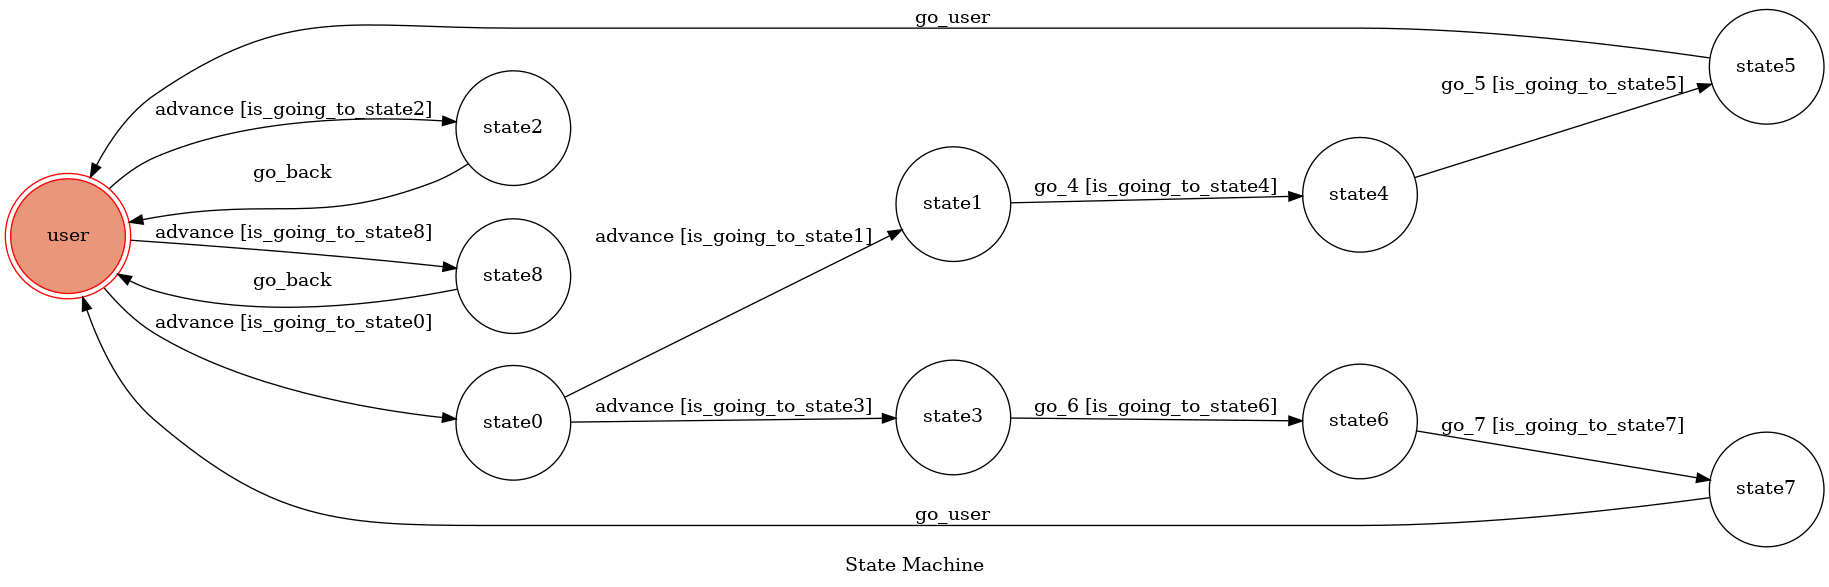
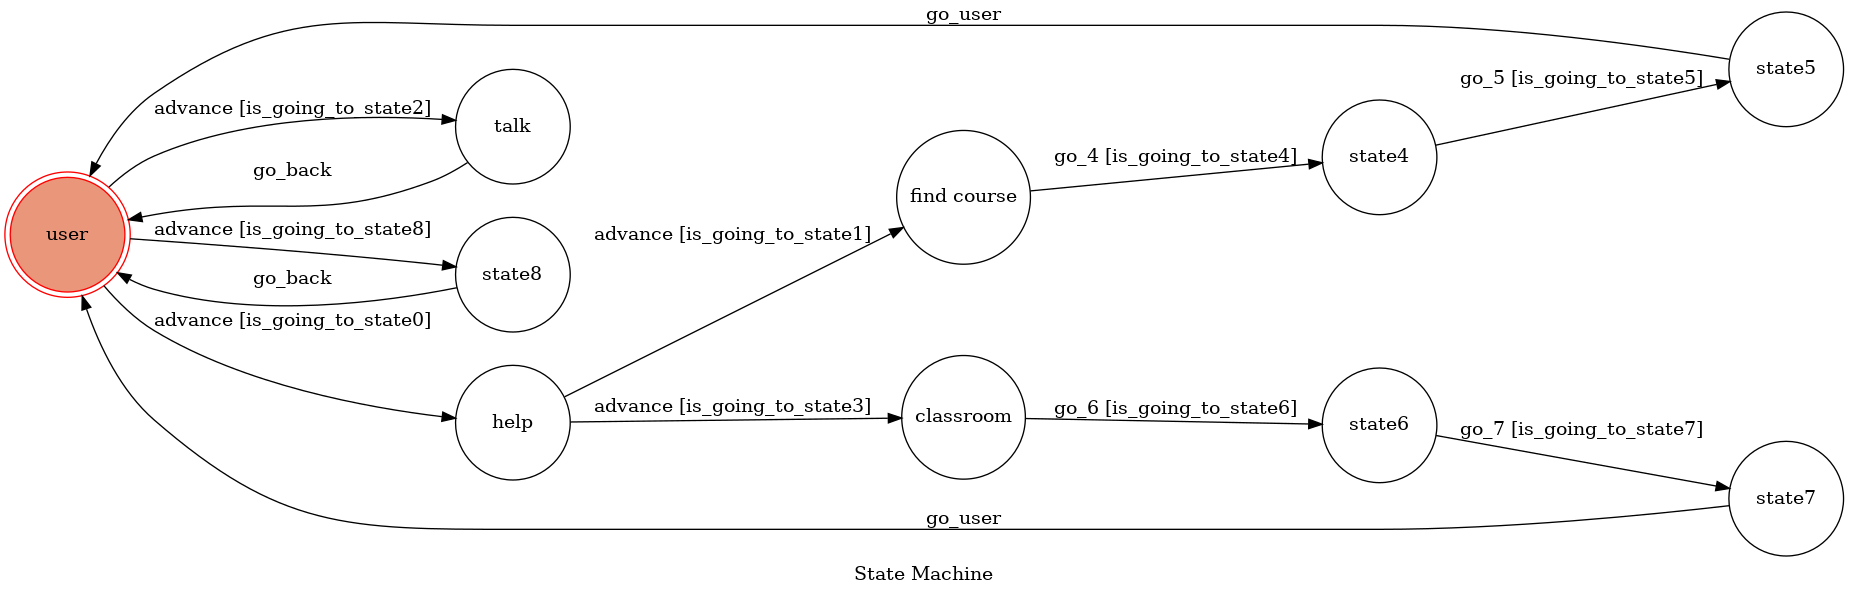
Add README

diff --git a/app.py b/app.py
@@ -7,7 +7,7 @@ machine = TocMachine(
     states=[
         'user',
         'help',
-        'find course',
+        'course',
         'talk',
         'classroom',
         'state4',
@@ -26,7 +26,7 @@ machine = TocMachine(
         {
             'trigger': 'advance',
             'source': 'help',
-            'dest': 'find course',
+            'dest': 'course',
             'conditions': 'is_going_to_state1'
         },
         {
@@ -49,7 +49,7 @@ machine = TocMachine(
         },
         {
             'trigger': 'go_4',
-            'source': 'find course',
+            'source': 'course',
             'dest': 'state4',
             'conditions': 'is_going_to_state4'
         },
@@ -118,7 +118,7 @@ def webhook_handler():
 
     if body['object'] == "page":
         event = body['entry'][0]['messaging'][0]
-        if machine.state == "find course":
+        if machine.state == "course":
             machine.go_4(event)
             return 'OK'
         elif machine.state == "state4":

diff --git a/README.md b/README.md
@@ -1,43 +1,34 @@
 # TOC Project 2019
 
-Template Code for TOC Project 2019
-
 A Facebook messenger bot based on a finite state machine
-///give me something !!!
 
-## Setup
+### Chat Box 功能:
+* 成大課程查詢
+* NCKU CSIE 借教室 
+* 模仿你講話
 
-### Prerequisite
+## Quickstart
+### 成大課程查詢
+1. 輸入"小幫手"，選擇"課程查詢"按鈕
+2. 輸入想要查詢的系所代號
+3. 輸入想要查詢的課程代碼
+4. 回傳搜尋結果(餘額/課程連結)
+5. 如果還有餘額，會再回傳成大選課系統的連結
+
+### NCKU CSIE 借教室 
+1. 輸入"小幫手"，選擇"教室查詢"按鈕
+2. 輸入想要查詢的日期
+3. 輸入想要查詢的時段
+4. 回傳搜尋的結果(可以使用的教室/系館借教室的連結)
+
+### 模仿你講話
+1. 你輸入的對話，回傳給你
+
+### Setup
 * Python 3
 * Facebook Page and App
 * HTTPS Server
 * Beautifulsoup
 
-####  Hoe to Run 
-open two terminal
-```sh
-./ngrok http 5000 	#Run Locally
-```
-```sh
-python3 app.py      #Run the sever
-```
-
-
-## Finite State Machine
+## FSM Graph
 ![fsm](./img/fsm.png)
-
-## Usage
-The initial state is set to `user`.
-
-Every time `user` state is triggered to `advance` to another state, it will `go_back` to `user` state after the bot replies corresponding message.
-
-* user
-	* Input: "go to state1"
-		* Reply: "I'm entering state1"
-
-	* Input: "go to state2"
-		* Reply: "I'm entering state2"
-
-
-## Reference
-[TOC-Project-2017](https://github.com/Lee-W/TOC-Project-2017) ❤ [@Lee-W](https://github.com/Lee-W)
